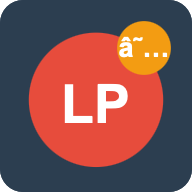
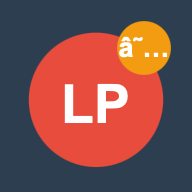
Nouveaux PNG icônes sans roundRect

diff --git a/generer-icone.html b/generer-icone.html
@@ -7,53 +7,8 @@
 function dessiner(id, taille) {
   const c = document.getElementById(id);
   const ctx = c.getContext('2d');
-  const r = taille * 0.12;
   ctx.fillStyle = '#2c3e50';
-  ctx.beginPath();
-  ctx.roundRect(0, 0, taille, taille, r);
-  ctx.fill();
-  ctx.fillStyle = '#e74c3c';
-  ctx.beginPath();
-  ctx.arc(taille*0.5, taille*0.52, taille*0.35, 0, Math.PI*2);
-  ctx.fill();
-  ctx.fillStyle = '#f39c12';
-  ctx.beginPath();
-  ctx.arc(taille*0.75, taille*0.25, taille*0.14, 0, Math.PI*2);
-  ctx.fill();
-  ctx.fillStyle = 'white';
-  ctx.font = `bold ${taille*0.28}px Arial`;
-  ctx.textAlign = 'center';
-  ctx.textBaseline = 'middle';
-  ctx.fillText('LP', taille*0.5, taille*0.54);
-  ctx.font = `bold ${taille*0.14}px Arial`;
-  ctx.fillText('★', taille*0.75, taille*0.25);
-  const lien = document.createElement('a');
-  lien.download = id + '.png';
-  lien.href = c.toDataURL('image/png');
-  lien.click();
-}
-dessiner('c192', 192);
-setTimeout(() => dessiner('c512', 512), 500);
-</script>
-</body>
-
-
-
-cat > generer-icone.html << 'EOF'
-<!DOCTYPE html>
-<html>
-<body>
-<canvas id="c192" width="192" height="192"></canvas>
-<canvas id="c512" width="512" height="512"></canvas>
-<script>
-function dessiner(id, taille) {
-  const c = document.getElementById(id);
-  const ctx = c.getContext('2d');
-  const r = taille * 0.12;
-  ctx.fillStyle = '#2c3e50';
-  ctx.beginPath();
-  ctx.roundRect(0, 0, taille, taille, r);
-  ctx.fill();
+  ctx.fillRect(0, 0, taille, taille);
   ctx.fillStyle = '#e74c3c';
   ctx.beginPath();
   ctx.arc(taille*0.5, taille*0.52, taille*0.35, 0, Math.PI*2);
